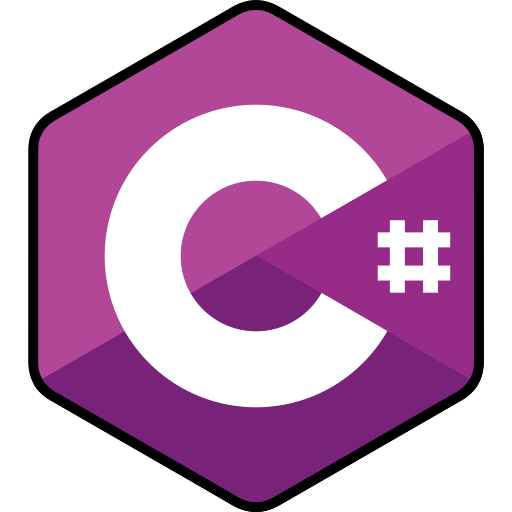
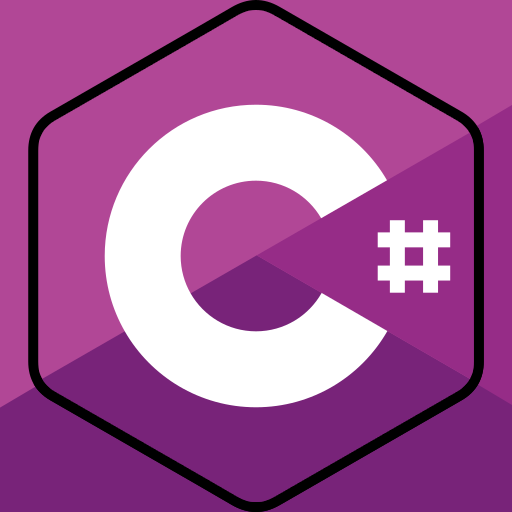
upate home page styling

diff --git a/components/TechStack/index.jsx b/components/TechStack/index.jsx
@@ -1,11 +1,11 @@
 import Image from 'next/image'
 import Link from 'next/link'
-import csharp from '../../public/tech/c-sharp.png'
+import csharp from '../../public/tech/c-sharp-2.png'
 import javascript from '../../public/tech/javascript.svg'
 // import ts from '../../public/tech/ts.svg'
 import database from '../../public/tech/database.png'
 import swift from '../../public/tech/swift.svg'
-import next from '../../public/tech/next-js.svg'
+import next from '../../public/tech/next-js.png'
 import aws from '../../public/tech/aws.jpg'
 import lambda from '../../public/tech/lambda.png'
 import react from '../../public/tech/react.svg'
@@ -30,17 +30,17 @@ const techStack = [
 
 export default function TechStack({ posts, title, description }) {
   return (
-    <div className="relative bg-gray-50 px-4 pt-8 pb-10 sm:px-6 lg:px-8 lg:pt-12 lg:pb-14">
-      <div className="relative mx-auto max-w-7xl px-2">
+    <div className="bg-gray-900 px-4 pt-8 pb-10 sm:px-6 lg:px-8 lg:pt-12 lg:pb-14">
+      <div className="mx-auto max-w-7xl px-2">
         <div className="text-center">
-          <h2 className="text-3xl font-bold tracking-tight text-gray-900 sm:text-4xl">
+          <h2 className="text-3xl font-bold tracking-tight text-white sm:text-4xl">
             Topics
           </h2>
-          <p className="mx-auto mt-3 max-w-2xl text-xl text-gray-500 sm:mt-4">
+          <p className="mx-auto mt-3 max-w-2xl text-xl text-gray-300 sm:mt-4">
             Some of the main topics I like to write and make videos about.
           </p>
         </div>
-        <div className="mx-auto mt-12 grid max-w-lg gap-4 md:gap-12 lg:gap-x-28 lg:max-w-none grid-cols-4">
+        <div className="mx-auto mt-12 grid max-w-lg gap-4 md:gap-12 lg:gap-x-32 xl:gap-x-44 lg:gap-y-24 lg:max-w-none grid-cols-4">
           {techStack.map((image, index) => {
             // const imageSize = normalizeImageSize({ ...post.image, maxHeight: 192 * 2 })
 
@@ -48,6 +48,27 @@ export default function TechStack({ posts, title, description }) {
           }
           )}
         </div>
+      </div>
+
+      <div className="mx-auto max-w-7xl px-2 mt-16 sm:mt-24 flex flex-col md:flex-row gap-6 lg:gap-32 justify-center items-center m-auto">
+
+        <div className="rounded-md shadow w-full md:w-1/3  max-w-xs">
+          <Link href="/posts"
+            className="flex w-full items-center justify-center rounded-md border border-transparent bg-indigo-600 px-8 py-3 text-base font-medium text-white hover:bg-indigo-700 md:py-4 md:px-10 md:text-lg"
+          >
+            Videos & Articles
+          </Link>
+        </div>
+
+        <div className="rounded-md shadow  w-full md:w-1/3 max-w-xs">
+          <Link href="playlists"
+            className="flex w-full items-center justify-center rounded-md border border-transparent bg-indigo-600 px-8 py-3 text-base font-medium text-white hover:bg-indigo-700 md:py-4 md:px-10 md:text-lg"
+          >
+            Playlists
+          </Link>
+        </div>
+
+
       </div>
     </div>
   )
@@ -59,24 +80,24 @@ function Card({ image, ImageComponent = Image, className }) {
 
 
   return (
-    <div className={twMerge('flex flex-col relative top-1 hover:top-0 transition-all duration-200', className)}>
+    <div className={twMerge('flex flex-col relative top-1 hover:top-0 transition-all duration-200 ', className)}>
 
 
       <Link
         href={image.href}
-        className="flex-1 flex flex-col overflow-hidden rounded-xl shadow-lg hover:shadow-2xl transition-all duration-200"
+        className="flex-1 flex flex-col overflow-hidden rounded-xl border-gray-200 border-spacing-5 border-4 shadow-lg hover:shadow-2xl transition-all duration-200"
       >
         <div className="flex-shrink-0 group relative">
 
           <ImageComponent
-            className="w-full object-cover"
+            className="w-full object-cover bg-white"
             src={image.src}
             alt={image.alt}
             // {...imageSize}
             quality={100}
           />
           <div className="opacity-0 group-hover:opacity-100 absolute inset-0 z-10 flex justify-center items-center">
-            <div className="bg-gray-900 bg-opacity-80 text-white text-center p-2 rounded-lg w-full h-full flex justify-center items-center text-sm md:text-lg lg:text-xl">{ image.alt }</div>
+            <div className="bg-gray-900 bg-opacity-80 text-white text-center p-2 rounded-lg w-full h-full flex justify-center items-center text-sm md:text-lg lg:text-xl">{image.alt}</div>
           </div>
 
         </div>

diff --git a/pages/index.jsx b/pages/index.jsx
@@ -3,6 +3,8 @@ import Hero from '../components/Hero'
 import FeaturedCards from '../components/FeaturedCards'
 import FeaturedVideo from '../components/FeaturedVideo'
 
+import Link from 'next/link'
+
 import { getFeaturedPosts, getMostRecentVideo } from '../server/dynamo/queries'
 
 import Meta from '../components/Meta'
@@ -24,7 +26,7 @@ export default function Home({ featuredEntities, featuredVideo }) {
     <>
       <Head>
         <title>saM</title>
-        <Meta 
+        <Meta
           title="saM"
           description={description}
           // image={`https://www.sammeechward.com/_next/image?url=${encodeURIComponent(`https://www.sammeechward.com${toilet.src}`)}&w=700&q=75`}
@@ -53,6 +55,7 @@ export default function Home({ featuredEntities, featuredVideo }) {
       /> */}
 
       <TechStack />
+    
 
       <FeaturedVideo title={"Latest Upload"} description={featuredVideo.title + " " + featuredVideo.description} videoId={featuredVideo.videoId} />
 

diff --git a/components/FeaturedVideo/index.jsx b/components/FeaturedVideo/index.jsx
@@ -2,11 +2,8 @@ import YouTube from "../YouTube"
 
 export default function FeaturedVideo({ videoId, title, description }) {
   return (
-    <div className="relative bg-gray-50 pt-8 pb-10 lg:pt-12 lg:pb-14 sm:mt-0">
-      <div className="absolute inset-0">
-        <div className="bg-gray-300 h-2/3" />
-      </div>
-      <div className="relative mx-auto max-w-7xl">
+    <div className="bg-white pt-8 pb-10 lg:pt-12 lg:pb-14 sm:mt-0">
+      <div className="mx-auto max-w-7xl">
         <div className="text-center px-6 sm:px-8 lg:px-10">
           <h2 className="text-3xl font-bold tracking-tight text-gray-900 sm:text-4xl">
             {title}

diff --git a/components/Header/index.jsx b/components/Header/index.jsx
@@ -17,7 +17,7 @@ export default function Header(props) {
     props.onSearch(e.target.search.value)
   }
   return (
-    <Disclosure as="nav" className="bg-gray-800 relative z-50">
+    <Disclosure as="nav" className=" bg-gray-800 relative z-50 border-b-2 border-gray-600">
       {/* <h1>{props.selected}</h1> */}
       {({ open }) => (
         <>
